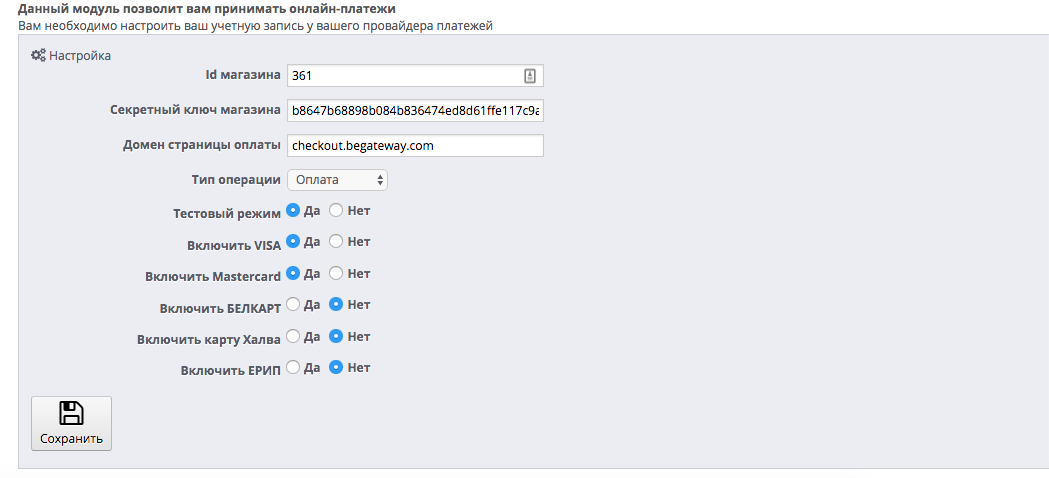
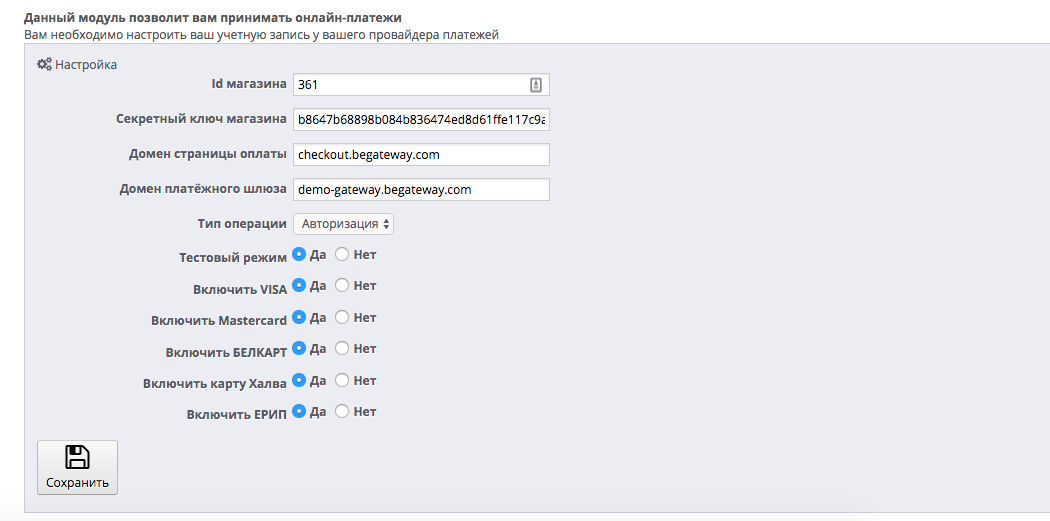
fix logic of auth/capture/refund

Changed region(s): [[0.0915, 0.1172, 0.5186, 0.8201], [0.0, 0.0, 0.4881, 0.1464], [0.0305, 0.8201, 1.0, 0.9958]]

diff --git a/begateway/begateway.php b/begateway/begateway.php
@@ -207,7 +207,8 @@ class BeGateway extends PaymentModule
 
           $html = $this->display(__FILE__, 'views/templates/admin/order/refund.tpl');
 
-      } elseif ($order->canCaptureAmount(self::MIN_AMOUNT)) {
+      } else {
+        if ($order->canCaptureAmount(self::MIN_AMOUNT)) {
           $this->context->smarty->assign(
               [
                   'base_url'                 => _PS_BASE_URL_ . __PS_BASE_URI__,
@@ -219,8 +220,8 @@ class BeGateway extends PaymentModule
           );
 
           $html = $this->display(__FILE__, 'views/templates/admin/order/capture.tpl');
-
-      } elseif ($order->canVoidAmount(self::MIN_AMOUNT)) {
+        }
+        if ($order->canVoidAmount(self::MIN_AMOUNT)) {
           $this->context->smarty->assign(
               [
                   'base_url'                 => _PS_BASE_URL_ . __PS_BASE_URI__,
@@ -230,7 +231,8 @@ class BeGateway extends PaymentModule
               ]
           );
 
-          $html = $this->display(__FILE__, 'views/templates/admin/order/void.tpl');
+          $html .= $this->display(__FILE__, 'views/templates/admin/order/void.tpl');
+        }
       }
 
       return $html;
@@ -265,6 +267,7 @@ class BeGateway extends PaymentModule
   }
 
   protected function capture($order, $amount) {
+      $transaction = $order->getTransaction();
       $capture = new \BeGateway\CaptureOperation;
       $capture->setParentUid($transaction->getTransactionId());
       $capture->money->setCurrency($order->getCurrency());
@@ -275,6 +278,7 @@ class BeGateway extends PaymentModule
       if ($response->isSuccess()) {
 
         $transaction->setTransactionType('payment');
+        $transaction->setTransactionId($response->getUid());
         $transaction->addCapturedAmount($amount);
         $transaction->save();
 
@@ -287,6 +291,7 @@ class BeGateway extends PaymentModule
   }
 
   protected function void($order, $amount) {
+      $transaction = $order->getTransaction();
       $void = new \BeGateway\VoidOperation;
       $void->setParentUid($transaction->getTransactionId());
       $void->money->setCurrency($order->getCurrency());

diff --git a/begateway/lib/transaction/BeGatewayTransaction.php b/begateway/lib/transaction/BeGatewayTransaction.php
@@ -69,12 +69,12 @@ class BeGatewayTransaction implements BeGatewayTransactionInterface
 
     public function canBeCaptured()
     {
-        return $this->isSuccess() && !$this->isCaptured() && $this->transaction_type == 'authorization';
+        return $this->isSuccess() && !$this->isCaptured() && !$this->isVoided() && $this->transaction_type == 'authorization';
     }
 
     public function canBeVoided()
     {
-        return $this->isSuccess() && !$this->isVoided() && $this->transaction_type == 'authorization';
+        return $this->isSuccess() && !$this->isVoided() && !$this->isCaptured() && $this->transaction_type == 'authorization';
     }
 
     public function isSuccess()

diff --git a/begateway/lib/order/BeGatewayOrder.php b/begateway/lib/order/BeGatewayOrder.php
@@ -310,7 +310,7 @@ class BeGatewayOrder implements BeGatewayOrderInterface
     {
         $transaction = $this->getTransaction();
 
-        return BeGatewayHelper::round($this->getAmount() - $transaction->getVoidAmount());
+        return BeGatewayHelper::round($this->getAmount() - $transaction->getVoidedAmount());
     }
 
 

diff --git a/README.md b/README.md
@@ -23,7 +23,7 @@
 
 At the payment module configuration page:
 
-  * Enter in fields _Shop Id_, _Shop secret key_ and _Checkout page domain_ values received from your payment processor.
+  * Enter in fields _Shop Id_, _Shop secret key_, _Checkout page domain_ and _Gateway page domain_ values received from your payment processor.
   * Select a default transaction type: __Payment__ or __Authorization__
   * Disable or enable the module test mode.
   * Enable payment methods you want to accept payments with.
@@ -89,7 +89,7 @@ Issue pull requests or send feature requests.
 
 На странице настройки модуля:
 
-  * Введите в полях _Id магазина_, _Ключ магазина_ и _Домен страницы оплаты_ значения, полученные от вашей платежной компании
+  * Введите в полях _Id магазина_, _Ключ магазина_, _Домен страницы оплаты_ и _Домен платёжного шлюза_ значения, полученные от вашей платежной компании
   * Выберете тип транзакции по умолчанию: __Payment__ or __Authorization__
   * Включите или выключите тестовый режим работы модуля
   * Выберете способы оплаты, которыми хотите принимать платежи
